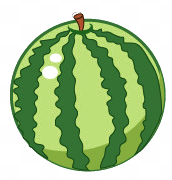
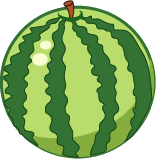
Version 6 frutas y fondo

diff --git a/flujos/flujoMonkey.js b/flujos/flujoMonkey.js
@@ -8,7 +8,7 @@ window.onload = function () {
     frames++;
 
     ctx.clearRect(0,0, canvas.width, canvas.height)
-    //board.draw()
+    /board.draw()
 
 //////////////////////////Funcionalidad MonkeyHera/////////////////////////
     //Mueve Heroe
@@ -51,14 +51,14 @@ window.onload = function () {
 
     //Crea Gorilas
     if(frames%480 === 0 || frames ===200){
-      numeroEnemigos=generaAleatorio(1,4);
+      numeroEnemigos=generaAleatorio(1,5);
       for(let i=0; i<numeroEnemigos; i++){
         if(i%2===0){
-          arregloGorilas.push(new GorilaDer(generaAleatorio(80,180)*-1,470,80,80,generaAleatorio(7,2),generaAleatorio(7,2)));
+          arregloGorilas.push(new GorilaDer(generaAleatorio(80,180)*-1,500,120,120,generaAleatorio(2,10),generaAleatorio(2,7)));
           arregloGorilas[arregloGorilas.length-1].cargaImagen(arregloGorilas[arregloGorilas.length-1].gorilas1Derecha);
         }
         else {
-          arregloGorilas.push(new GorilaIzq(generaAleatorio(1200,1300),470,80,80,generaAleatorio(7,2),generaAleatorio(7,2)));
+          arregloGorilas.push(new GorilaIzq(generaAleatorio(1200,1300),500,120,120,generaAleatorio(2,10),generaAleatorio(2,7)));
           arregloGorilas[arregloGorilas.length-1].cargaImagen(arregloGorilas[arregloGorilas.length-1].gorilas2Izquierda);
         }
       }
@@ -80,8 +80,54 @@ window.onload = function () {
       }
     }
 
+    //////////////////////////////////Funcionalidad Frutas//////////////////////////
+
+    //Crea Frutas
+    if(frames%1000 === 0){
+      numeroFrutas=generaAleatorio(1,5);
+      for(let i=0; i<numeroFrutas; i++){
+        tipoFruta=generaAleatorio(0,6);
+        switch(tipoFruta){
+          case 0:
+            tamañoFruta=30;
+          break;
+          case 1:
+            tamañoFruta=40;
+          break;
+          case 2:
+            tamañoFruta=55;
+          break;
+          case 3:
+            tamañoFruta=55;
+          break;
+          case 4:
+            tamañoFruta=60;
+          break;
+          case 5:
+            tamañoFruta=55;
+          break;
+        }
+        arregloFrutas.push(new Frutas(generaAleatorio(200,1000),0,tamañoFruta,tamañoFruta,generaAleatorio(2,15)));
+        arregloFrutas[arregloFrutas.length-1].cargaImagen(tipoFruta);
+        arregloFrutas[arregloFrutas.length-1].tipoFruta=tipoFruta;
+      }
+    }
+
+    //Mueve frutas
+    for(let i=0; i<arregloFrutas.length; i++){
+      if(arregloFrutas[i]!=null){
+        if(frames%12===0)
+          arregloFrutas[i].moveDown();
+        arregloFrutas[i].draw();
+      }
+    }
+
+
     //Valida impacto balas Gorilas
     impactoBalasGorilas();
+
+    //Valida recoge Frutas
+    recogeFruta();
 
 /////////////////////////////////////Valida fin juego/////////////////////////////
 
@@ -108,6 +154,7 @@ window.onload = function () {
     for(let i=0; i<monkeyHero.arregloBalas.length;i++){
       for(let j=0; j<arregloGorilas.length; j++){
         if(arregloGorilas[j]!=null && monkeyHero.arregloBalas[i]!=null && arregloGorilas[j].deadBala(monkeyHero.arregloBalas[i])){
+          monkeyHero.puntos+=arregloGorilas[j].puntos;
           arregloGorilas[j]=null;
           monkeyHero.arregloBalas[i]=null;
         }
@@ -115,9 +162,21 @@ window.onload = function () {
     }
   }
 
+  function recogeFruta(){
+    for(let i=0; i<arregloFrutas.length; i++){
+      if(arregloFrutas[i]!=null && arregloFrutas[i].frutaTomada(monkeyHero)){
+        monkeyHero.puntos+=arregloFrutas[i].puntosFruta;
+        if(arregloFrutas[i].tipoFruta===3)
+          monkeyHero.balas+=arregloFrutas[i].balasIfPlatanos;
+        arregloFrutas[i]=null;
+      }
+    }
+  }
+
+
   function generaAleatorio(min, max){
     return Math.floor(Math.random() * (max - min)) + min;
   }
 
-  startGame()
+  startGame();
 }

diff --git a/clases/frutas.js b/clases/frutas.js
@@ -1,0 +1,104 @@
+function Frutas(posicionX, posicionY, width, height, velocidadY){
+  this.x=posicionX;
+  this.y=posicionY;
+  this.width=width;
+  this.height=height;
+  this.velocidadY=velocidadY;
+  this.puntosFruta;
+  this.tipoFruta;
+
+  //Constantes
+  this.limon=0;
+  this.pera=1;
+  this.pinia=2;
+  this.platanos=3;
+  this.sandia=4;
+  this.uvas=5;
+  this.balasIfPlatanos=50;
+
+  //Imagen fruta
+  this.img =new Image();
+}
+
+//Llena Imagene Fruta
+Frutas.prototype.cargaImagen=function(fruta){
+  switch(fruta){
+    case this.limon:
+      this.puntosFruta=10;
+      this.img.src=arrayRutaFrutas[this.limon];
+      this.img.onload = function(){
+        console.log("Imagen Fruta limon cargada");
+      }.bind(this);
+    break;
+    case this.pera:
+      this.puntosFruta=15;
+      this.img.src=arrayRutaFrutas[this.pera];
+      this.img.onload = function(){
+        console.log("Imagen Fruta pera cargada");
+      }.bind(this);
+    break;
+    case this.pinia:
+      this.puntosFruta=20;
+      this.img.src=arrayRutaFrutas[this.pinia];
+      this.img.onload = function(){
+        console.log("Imagen Fruta pinia cargada");
+      }.bind(this);
+    break;
+    case this.platanos:
+      this.puntosFruta=0;
+      this.img.src=arrayRutaFrutas[this.platanos];
+      this.img.onload = function(){
+        console.log("Imagen Fruta platanos cargada");
+      }.bind(this);
+    break;
+    case this.sandia:
+      this.puntosFruta=30;
+      this.img.src=arrayRutaFrutas[this.sandia];
+      this.img.onload = function(){
+        console.log("Imagen Fruta sandia cargada");
+      }.bind(this);
+    break;
+    case this.uvas:
+      this.puntosFruta=25;
+      this.img.src=arrayRutaFrutas[this.uvas];
+      this.img.onload = function(){
+        console.log("Imagen Fruta uvas cargada");
+      }.bind(this);
+    break;
+  }
+}
+
+//Dibuja fruta
+Frutas.prototype.draw=function(){
+   ctx.drawImage(this.img, this.x, this.y, this.width, this.height);
+}
+
+//Ejecuta movimientos
+Frutas.prototype.moveDown=function(){
+  this.y+=this.velocidadY;
+}
+
+
+//Valida colisiones
+Frutas.prototype.left=function(){
+   return this.x-10;
+}
+
+Frutas.prototype.right=function(){
+   return this.x+(this.width-10);
+}
+
+Frutas.prototype.top=function(){
+   return this.y+11;
+}
+
+Frutas.prototype.bottom=function(){
+   return (this.y+this.height);
+}
+
+Frutas.prototype.frutaTomada = function(monkeyHero) {
+  return !((this.bottom() < monkeyHero.top())    ||
+           (this.top()    > monkeyHero.bottom()) ||
+           (this.right()  < monkeyHero.left())   ||
+           (this.left()   > monkeyHero.right()));
+}

diff --git a/clases/board.js b/clases/board.js
@@ -1,24 +1,24 @@
 function Board() {
-  this.y = 0
-  this.x = 0
-  this.width = canvas.width
-  this.height = canvas.height
-  /*this.img = new Image()
-  this.img.src = 'https://raw.githubusercontent.com/Jossdz/lab-canvas-flappybirds/master/starter_code/images/bg.png'
+  this.y = 0;
+  this.x = 0;
+  this.width = canvas.width;
+  this.height = canvas.height;
+  this.img = new Image();
+  this.img.src = "./images/fondos/fondo.png";
 
   this.img.onload = function(){
-    console.log(this)
-    this.draw()
+    console.log(this);
+    this.draw();
   }.bind(this)
 
   this.move = function () {
-    this.x--
+    this.x--;
     if(this.x < -canvas.width) this.x = 0;
-  }*/
+  }
 
   this.draw = function(){
-    //this.move()
-    ctx.drawImage(this.img, this.x, this.y, this.width, this.height)
-    ctx.drawImage(this.img, this.x + this.width, this.y, this.width, this.height)
+    this.move();
+    ctx.drawImage(this.img, this.x, this.y, this.width, this.height);
+    ctx.drawImage(this.img, this.x + this.width, this.y, this.width, this.height);
   }
 }

diff --git a/declare/declare.js b/declare/declare.js
@@ -1,12 +1,12 @@
 let canvas = document.querySelector('#monkey')
 let ctx = canvas.getContext('2d')
 
-let monkeyHeroWidth=50;
-let monkeyHeroHeight=50;
+let monkeyHeroWidth=60;
+let monkeyHeroHeight=60;
 let monkeyHeroVelX=10;
 let monkeyHeroVelY=10;
 let monkeyHeroPosX=600;
-let monkeyHeroPosY=500;
+let monkeyHeroPosY=560;
 let balasWidth=40;
 let balasHeight=40;
 let balasVelocidad=3;
@@ -116,4 +116,8 @@ let board = new Board();
 let monkeyHero = new MonkeyHero(monkeyHeroPosX, monkeyHeroPosY, monkeyHeroWidth, monkeyHeroHeight, monkeyHeroVelX, monkeyHeroVelY);
 let interval, frames = 0;
 let arregloGorilas = [];
+let arregloFrutas = [];
 let numeroEnemigos=0;
+let numeroFrutas=0;
+let tipoFruta=0;
+let tamañoFruta=0;

diff --git a/monkeyHero.html b/monkeyHero.html
@@ -7,7 +7,7 @@
   <title>Monkey Hero</title>
 </head>
 <body>
-  <canvas id='monkey' width='1270' height='600'>
+  <canvas id='monkey' width='1270' height='650'>
 
   </canvas>
 
@@ -17,6 +17,7 @@
   <script src="./clases/gorilaDer.js"></script>
   <script src="./clases/gorilaIzq.js"></script>
   <script src="./clases/balas.js"></script>
+  <script src="./clases/frutas.js"></script>
   <script src="./auxiliares/helpers.js"></script>
   <script src="./declare/declare.js"></script>
   <script src="./listeners/listeners.js"></script>

diff --git a/clases/gorilaDer.js b/clases/gorilaDer.js
@@ -1,11 +1,15 @@
 //Gorila lado izquierdo
 function GorilaDer(posicionX, posicionY, width, height, velocidadX, velocidadY){
   Monkey.call(this, posicionX, posicionY, width, height, velocidadX, velocidadY);
-  //Flags acciones
 
+  //Flags acciones
   this.contSecMovLeftRight=0;
+
   //Banderas
   this.mueveDerecha=true;
+
+  //Puntos Gorila
+  this.puntos=3;
 }
 
 GorilaDer.prototype= Object.create(Monkey.prototype);

diff --git a/clases/gorilaIzq.js b/clases/gorilaIzq.js
@@ -1,11 +1,15 @@
 //Gorila lado derecho
 function GorilaIzq(posicionX, posicionY, width, height, velocidadX, velocidadY){
   Monkey.call(this, posicionX, posicionY, width, height, velocidadX, velocidadY);
-  //Flags acciones
 
+  //Flags acciones
   this.contSecMovLeftRight=0;
+
   //Banderas
   this.mueveDerecha=false;
+
+  //Puntos Gorila
+  this.puntos=3;
 }
 
 GorilaIzq.prototype= Object.create(Monkey.prototype);

diff --git a/clases/monkey.js b/clases/monkey.js
@@ -41,7 +41,6 @@ function Monkey(posicionX, posicionY, width, height, velocidadX, velocidadY){
 
 //Llena arreglos de imagenes
 Monkey.prototype.cargaImagen=function(tipoMovimiento){
-
   switch(tipoMovimiento){
     case this.ataque1Derecha:
       for(let i=0; i<arrayRutaAtaque1Derecha.length;i++){
